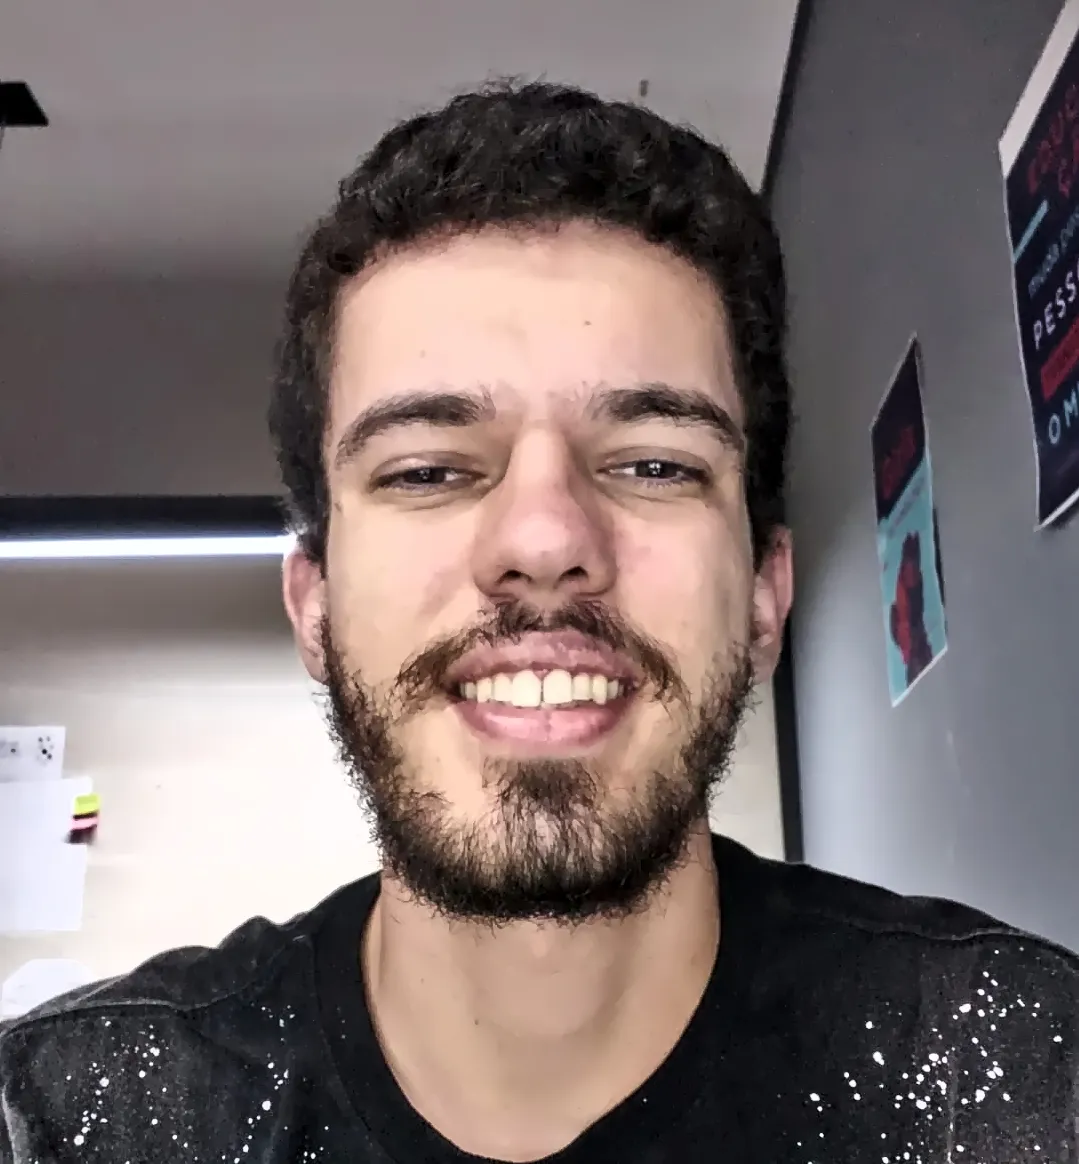
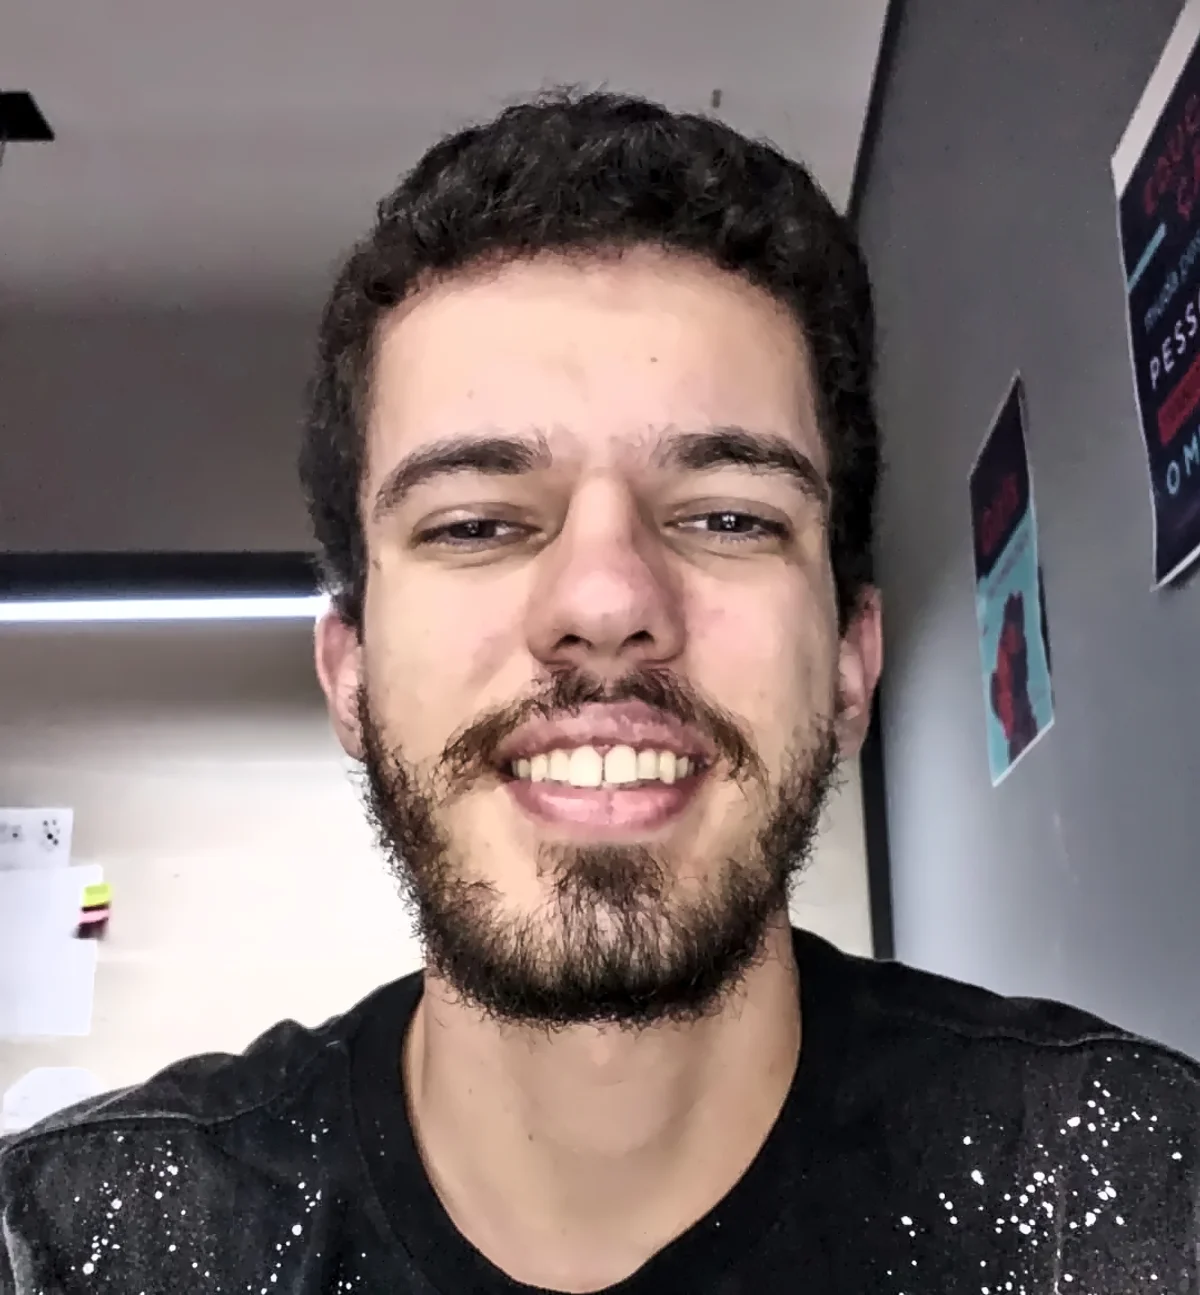
Fixes

diff --git a/src/app/[locale]/terms/page.tsx b/src/app/[locale]/terms/page.tsx
@@ -37,12 +37,14 @@ export async function generateMetadata({ params }: PageProps): Promise<Metadata>
       siteName: "Marcelo B. Diani",
       locale: locale === "pt" ? "pt_BR" : "en_US",
       type: "website",
+      images: [{ url: `${BASE_URL}/cvpic.webp`, width: 1200, height: 1295, alt: "Marcelo B. Diani" }],
     },
     twitter: {
       card: "summary",
       title: `${translations("title")} | Marcelo B. Diani`,
       description: translations("metaDescription"),
       site: "@marcelodiani",
+      images: [`${BASE_URL}/cvpic.webp`],
     },
     robots: { index: true, follow: true },
   };
@@ -64,12 +66,14 @@ export default async function TermsPage({ params }: PageProps) {
   const translations = await getTranslations({ locale, namespace: "legal" });
   const terms = await getTranslations({ locale, namespace: "legal.terms" });
 
-  const jsonLd = {
+  const localePath = locale === "en" ? "" : `${locale}/`;
+
+  const pageSchema = {
     "@context": "https://schema.org",
     "@type": "WebPage",
     name: terms("title"),
     description: terms("metaDescription"),
-    url: `${BASE_URL}/${locale === "en" ? "" : `${locale}/`}terms`,
+    url: `${BASE_URL}/${localePath}terms`,
     inLanguage: locale === "pt" ? "pt-BR" : "en-US",
     author: {
       "@type": "Person",
@@ -88,11 +92,24 @@ export default async function TermsPage({ params }: PageProps) {
     },
   };
 
+  const breadcrumbSchema = {
+    "@context": "https://schema.org",
+    "@type": "BreadcrumbList",
+    itemListElement: [
+      { "@type": "ListItem", position: 1, name: "Home", item: `${BASE_URL}/${localePath}` },
+      { "@type": "ListItem", position: 2, name: terms("title"), item: `${BASE_URL}/${localePath}terms` },
+    ],
+  };
+
   return (
     <>
       <script
         type="application/ld+json"
-        dangerouslySetInnerHTML={{ __html: JSON.stringify(jsonLd) }}
+        dangerouslySetInnerHTML={{ __html: JSON.stringify(pageSchema) }}
+      />
+      <script
+        type="application/ld+json"
+        dangerouslySetInnerHTML={{ __html: JSON.stringify(breadcrumbSchema) }}
       />
       <Navbar />
       <main className="min-h-screen pt-24 pb-16 px-6">

diff --git a/src/app/[locale]/privacy/page.tsx b/src/app/[locale]/privacy/page.tsx
@@ -37,12 +37,14 @@ export async function generateMetadata({ params }: PageProps): Promise<Metadata>
       siteName: "Marcelo B. Diani",
       locale: locale === "pt" ? "pt_BR" : "en_US",
       type: "website",
+      images: [{ url: `${BASE_URL}/cvpic.webp`, width: 1200, height: 1295, alt: "Marcelo B. Diani" }],
     },
     twitter: {
       card: "summary",
       title: `${translations("title")} | Marcelo B. Diani`,
       description: translations("metaDescription"),
       site: "@marcelodiani",
+      images: [`${BASE_URL}/cvpic.webp`],
     },
     robots: { index: true, follow: true },
   };
@@ -62,12 +64,14 @@ export default async function PrivacyPage({ params }: PageProps) {
     privacy("collectionItems.3"),
   ];
 
-  const jsonLd = {
+  const localePath = locale === "en" ? "" : `${locale}/`;
+
+  const pageSchema = {
     "@context": "https://schema.org",
     "@type": "WebPage",
     name: privacy("title"),
     description: privacy("metaDescription"),
-    url: `${BASE_URL}/${locale === "en" ? "" : `${locale}/`}privacy`,
+    url: `${BASE_URL}/${localePath}privacy`,
     inLanguage: locale === "pt" ? "pt-BR" : "en-US",
     author: {
       "@type": "Person",
@@ -86,11 +90,24 @@ export default async function PrivacyPage({ params }: PageProps) {
     },
   };
 
+  const breadcrumbSchema = {
+    "@context": "https://schema.org",
+    "@type": "BreadcrumbList",
+    itemListElement: [
+      { "@type": "ListItem", position: 1, name: "Home", item: `${BASE_URL}/${localePath}` },
+      { "@type": "ListItem", position: 2, name: privacy("title"), item: `${BASE_URL}/${localePath}privacy` },
+    ],
+  };
+
   return (
     <>
       <script
         type="application/ld+json"
-        dangerouslySetInnerHTML={{ __html: JSON.stringify(jsonLd) }}
+        dangerouslySetInnerHTML={{ __html: JSON.stringify(pageSchema) }}
+      />
+      <script
+        type="application/ld+json"
+        dangerouslySetInnerHTML={{ __html: JSON.stringify(breadcrumbSchema) }}
       />
       <Navbar />
       <main className="min-h-screen pt-24 pb-16 px-6">
